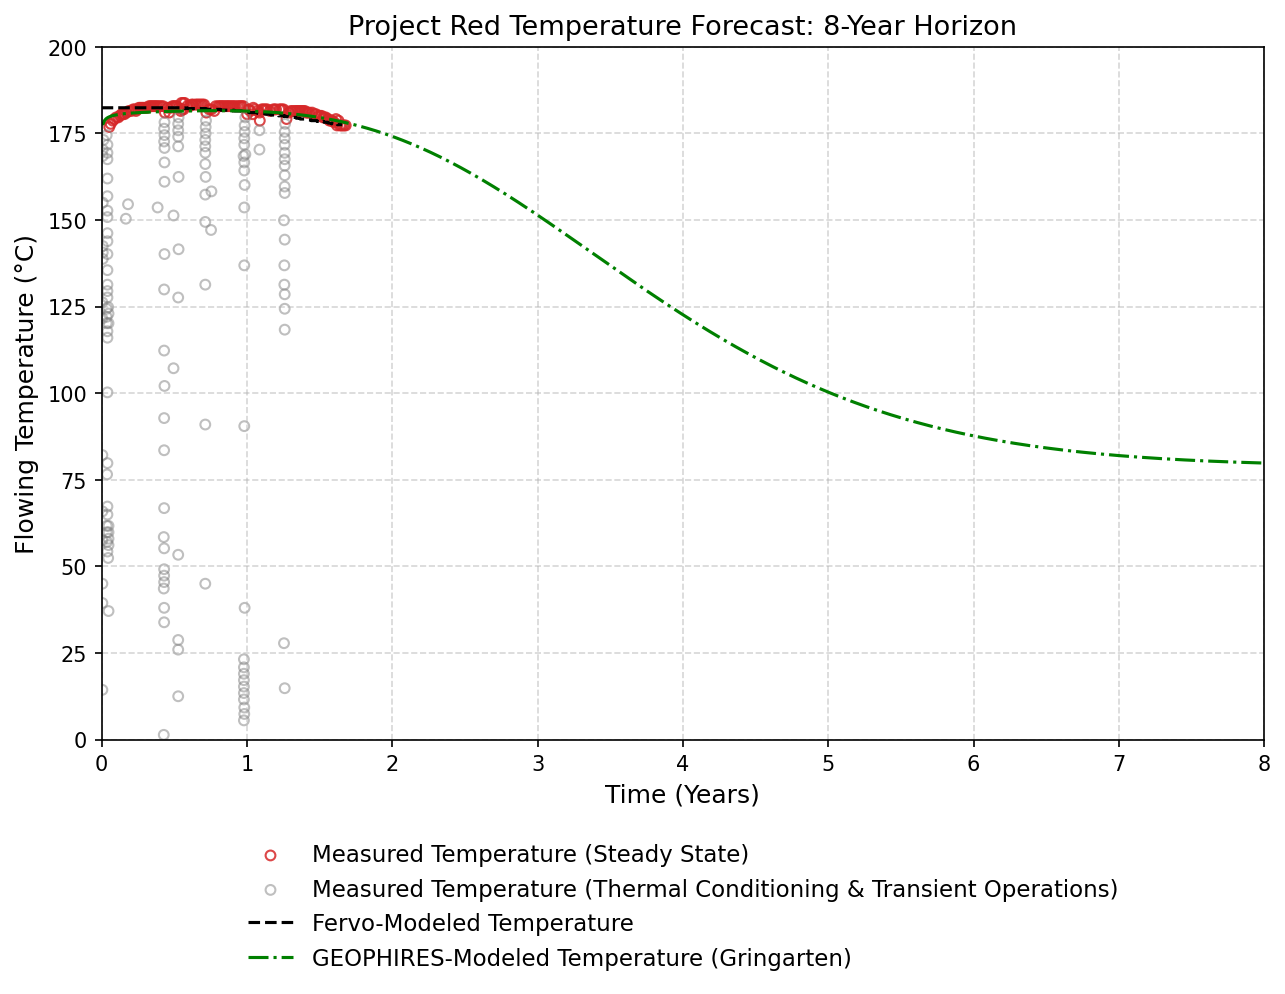
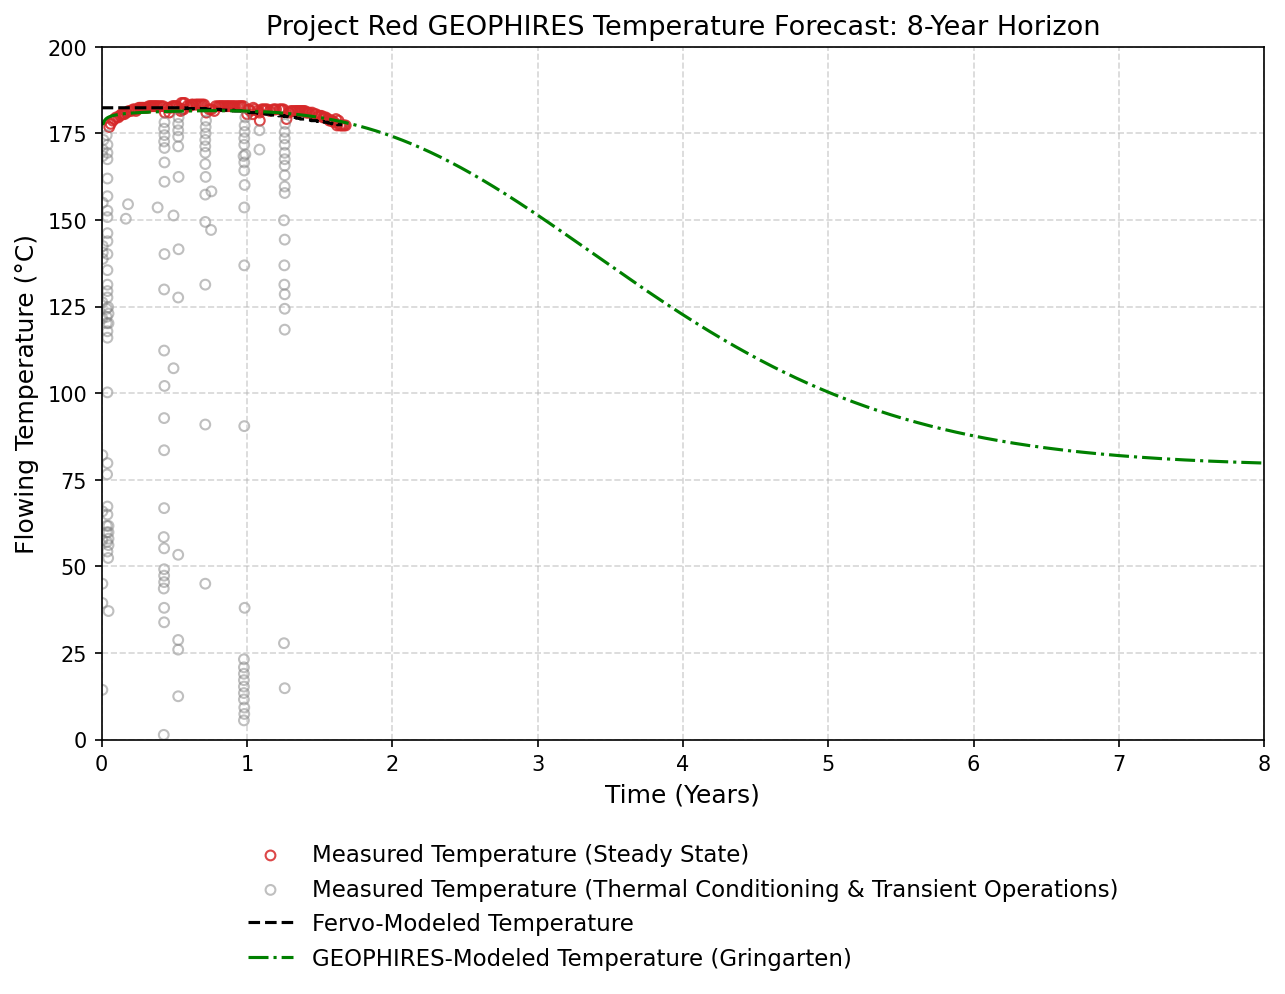
add long-term forecast to results section

Changed region(s): [[0.2179, 0.0, 0.8405, 0.0312]]

diff --git a/src/geophires_docs/generate_fervo_project_red_2026_docs.py b/src/geophires_docs/generate_fervo_project_red_2026_docs.py
@@ -404,7 +404,7 @@ def _generate_long_term_forecast_graph(
     ax.set_xlabel('Time (Years)', fontsize=12)
     ax.set_ylabel('Flowing Temperature (°C)', fontsize=12)
 
-    ax.set_title('Project Red Temperature Forecast: 8-Year Horizon', fontsize=13)
+    ax.set_title('Project Red GEOPHIRES Temperature Forecast: 8-Year Horizon', fontsize=13)
 
     ax.set_xlim(0.0, 8.0)
     ax.set_ylim(0.0, 200.0)
